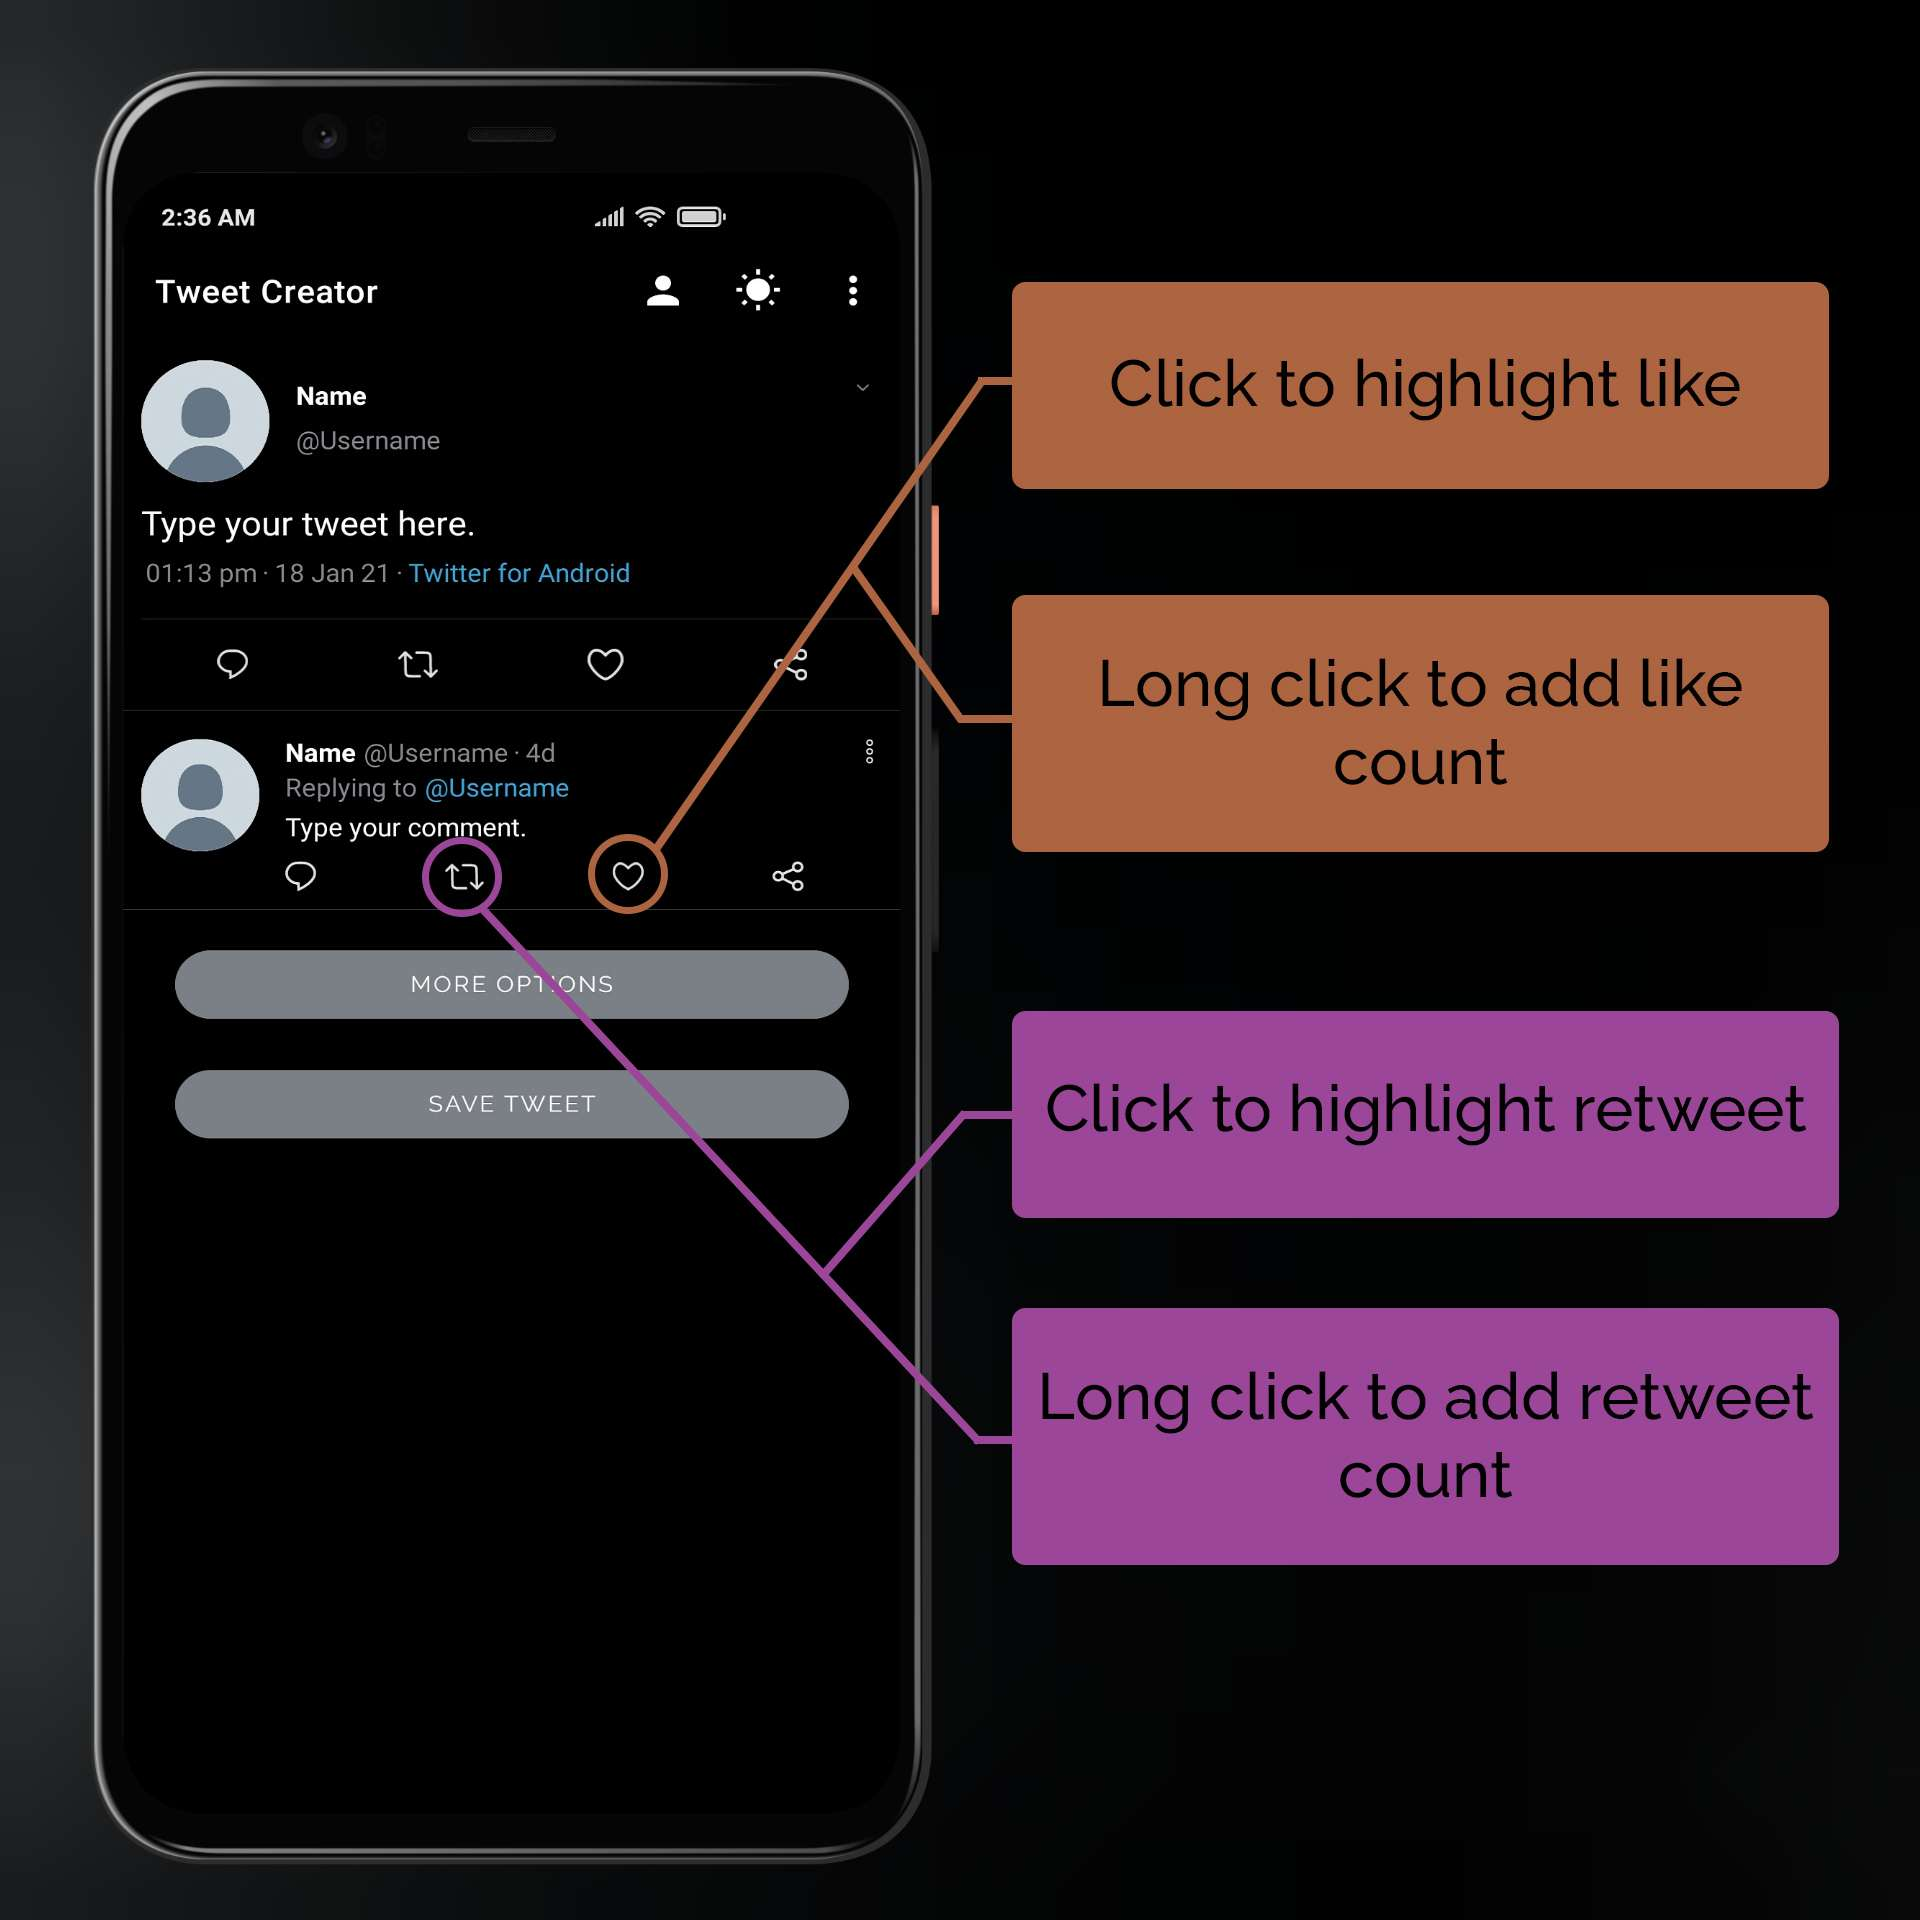
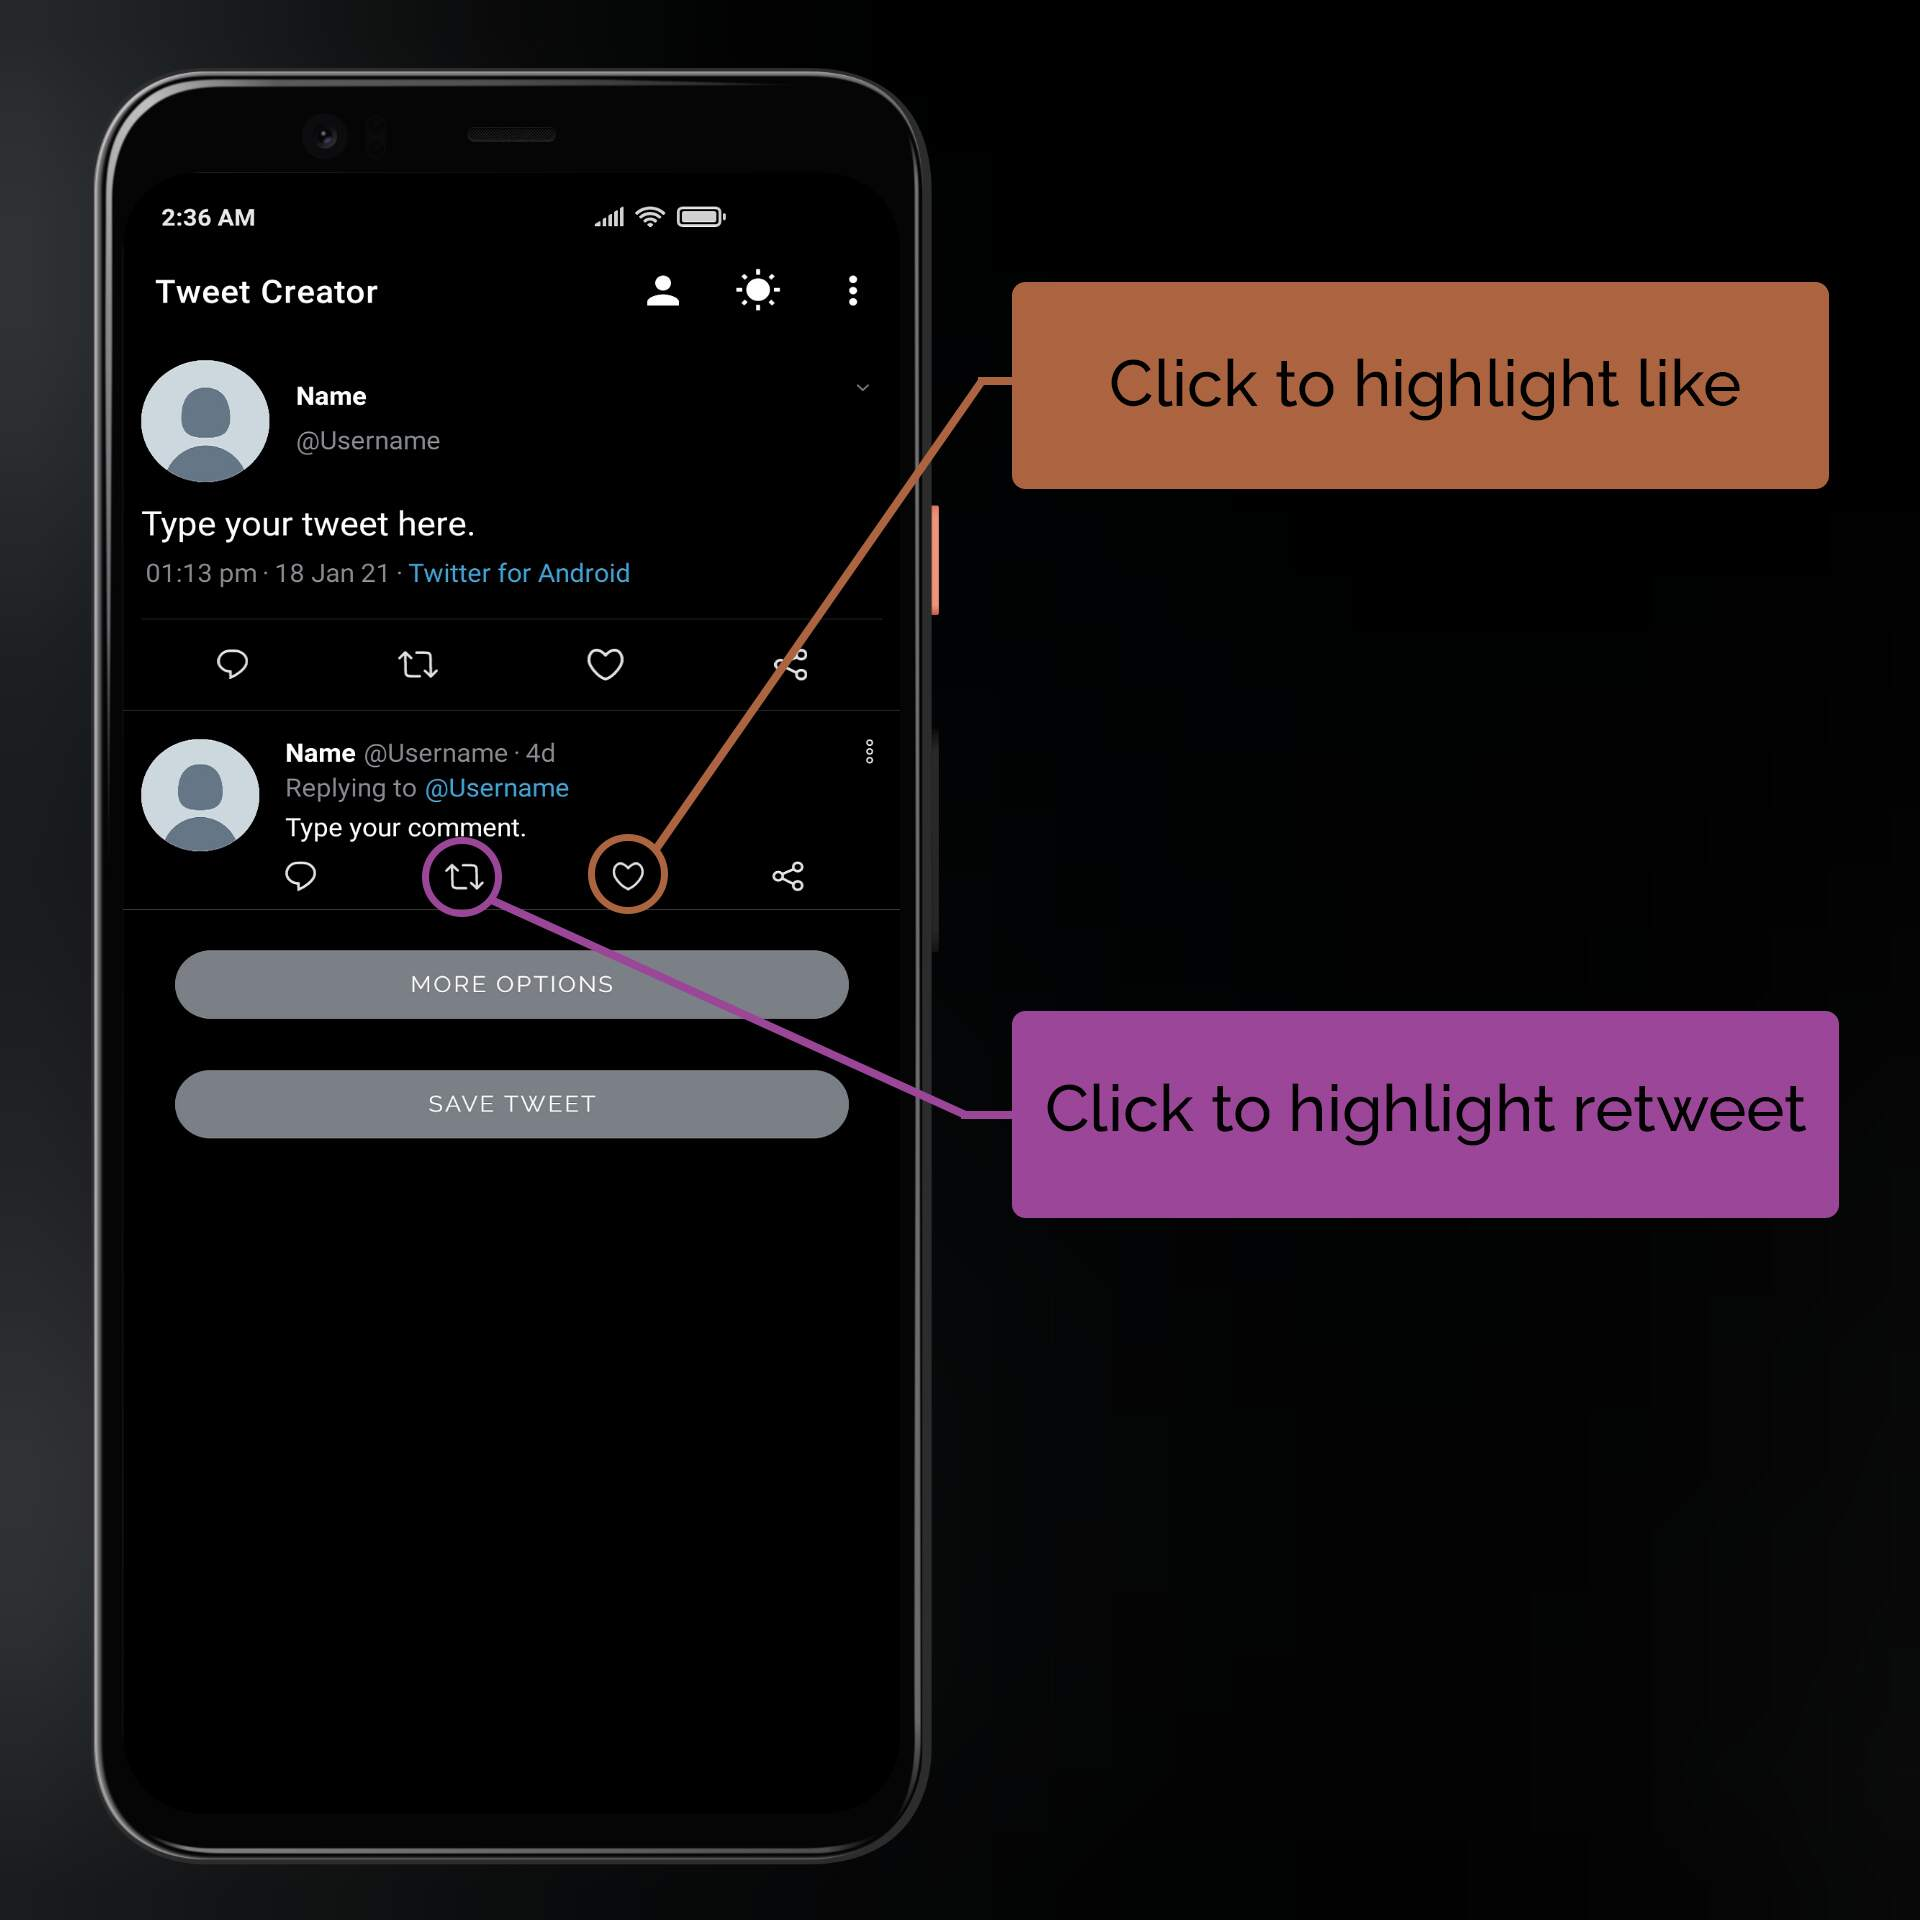
Updated TweetCreator faq

diff --git a/help/tweetcreator/faq.md b/help/tweetcreator/faq.md
@@ -7,7 +7,7 @@ title: FAQ Tweet Creator
 
 >Switching theme
 
-For switching between dark and light mode of app, touch the **Sun** or **Moon** icon in toolbar.
+For switching between dim, dark and light mode of app, touch the **Sun** or **Moon** icon on the toolbar, then choose any desired theme.
 
 ![Theme switching](../../assets/images/help-section/themeChange.jpg
 )
@@ -89,31 +89,19 @@ Touch the **comment icon** for adding reply to the tweet.
 
 Tap on **like/retweet icons** for highlighting them.
 
-> Changing like/retweet count.
 
-Do **long press** on **like/retweet icons** to change counts.
 
 ![Adding reply like/retweet count](../../assets/images/help-section/replyLike&TweetCounter.jpg
 )
 <!-- 10 -->
-## How to add verified badge to reply users ?
-> Toggling verified badge of reply users.
+## How to change reply options?
+> Changing various reply options like verified badge, private account and counts
 
-Touch the share button of the reply, for adding verify badge.
+Touch the 3 dots on the right of the reply, for accessing reply options menu.
 
-![Verify badge to reply](../../assets/images/help-section/replyBadge.jpg
+![Reply options menu](../../assets/images/help-section/tweetReplyOption.jpg
 )
 <!-- 11 -->
-## How to select saved users for replies?
-> Selecting saved user profiles for replies
-
-1. Touch the **3 vertical dots** on the right of the reply.
-1. Now, on the **user list screen**, tap on any **user profile**, for selecting it for reply.
-
-![Adding user to reply](../../assets/images/help-section/verifyReply&AddUser.jpg
-)
-
-<!-- 12 -->
 ## How to create a reply thread ?
 > Creating reply thread.
 
@@ -122,14 +110,25 @@ Touch **reply icon** of the reply for creating a **reply thread**.
 ![replyToReply](../../assets/images/help-section/replyToReply.jpg
 )
 
-<!-- 13 -->
-## How to add comment count in reply thread ?
+<!-- 12 -->
+## How to add quote tweet?
 
-> Changing comment count on reply thread.
+> Adding Quote tweet.
 
-Long press on the **comment icon** of replies in reply thread.
+Tap share icon of the main tweet for accessing **quote tweet menu** and Enable Quote tweet.
 
-![replyToReplyCommentNumber](../../assets/images/help-section/replyChildCommentCount.jpg
+![Quote Tweet](../../assets/images/help-section/quoteTweet.jpg
 )
->
+
+<!-- 13 -->
+## How to add image to quote tweet?
+
+> Adding images to Quote tweet.
+
+1. Tap share icon of the main tweet for accessing **quote tweet menu** and Enable Quote tweet.
+2. Enable Quote Photo.
+3. Choose any image from your device.
+
+![Quote Tweet](../../assets/images/help-section/quotetweetimage.jpg
+)
 
